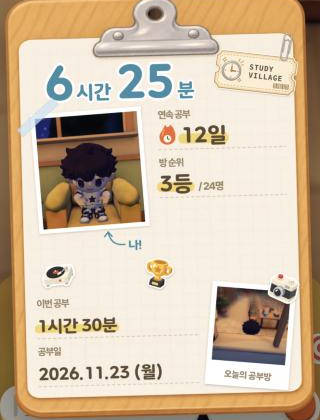
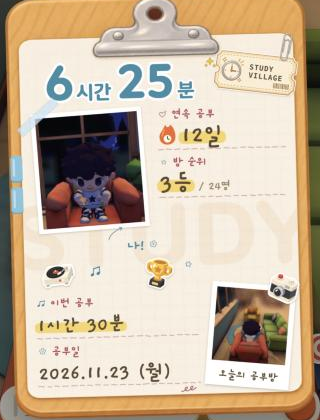
feat(web/study): hand-letter the study sheet with doodles
Labels and values now use the Gaegu handwriting font, labels are rose
with a doodle icon each, row rules are hand-drawn wobbly dashes, a large
faded STUDY watermark sits behind the content, sky-blue index tabs sit
on the board edge, and a few doodles fill the open space. The "나!"
label uses the doodle arrow and the polaroid caption is handwritten.

diff --git a/frontend/src/feature/study/recap/cardDraw.ts b/frontend/src/feature/study/recap/cardDraw.ts
@@ -8,6 +8,8 @@
 // assets/icons/study_*.png). 클립보드·티켓·클립·테이프는 Codex로 그린 일러스트(public/assets/study_recap,
 // 원본·프롬프트 tool/assets/recap_codex)이고, 글자·사진·스티커는 그 위에 캔버스로 그린다. 화면과 저장 이미지(인스타그램 스토리 1080×1920)는 같은 함수로 그린다.
 // 다크 모드에서 저장해도 같은 이미지가 나오도록 값은 낮 팔레트로 고정한다.
+import '@fontsource/gaegu/400.css'
+import '@fontsource/gaegu/700.css'
 import { paintClockField } from '../../../core/ui/IslandBackground'
 import { t } from '../../../l10n/t'
 import { webText } from '../../../l10n/web_ko'
@@ -22,11 +24,15 @@ const c = {
   lake: '#609baf', lakePattern: '#528ba0', title: '#3e8da6',
   sun: '#f8d66a', sunLedge: '#d9b246', onSun: '#5e4a32',
   white: '#ffffff',
+  /** 손글씨 라벨·낙서 장미색, 워터마크, 인덱스 탭. */
+  rose: '#b4505f', watermark: 'rgba(233,170,120,0.16)', tab: '#86c6de', tabEdge: '#5ea9c6',
 } as const
 
 const fonts = {
   sans: '"Pretendard Variable", Pretendard, -apple-system, sans-serif',
   round: '"TmoneyRoundWind", "Pretendard Variable", sans-serif',
+  /** 손글씨(Gaegu, OFL): 라벨·값·메모. */
+  hand: '"Gaegu", "Pretendard Variable", sans-serif',
   mono: 'ui-monospace, "SF Mono", Menlo, Consolas, monospace',
 } as const
 
@@ -45,6 +51,13 @@ const stickerUrls = {
   ticket: '/assets/study_recap/ticket.webp',
   paperclip: '/assets/study_recap/paperclip.webp',
   tape: '/assets/study_recap/tape.webp',
+  heart: '/assets/study_recap/doodle_heart.webp',
+  star: '/assets/study_recap/doodle_star.webp',
+  note: '/assets/study_recap/doodle_note.webp',
+  flower: '/assets/study_recap/doodle_flower.webp',
+  sparkle: '/assets/study_recap/doodle_sparkle.webp',
+  scribble: '/assets/study_recap/doodle_scribble.webp',
+  arrow: '/assets/study_recap/doodle_arrow.webp',
 } as const
 export type CardAssets = Record<keyof typeof stickerUrls, HTMLImageElement>
 
@@ -53,7 +66,7 @@ export async function loadCardAssets(recap: StudyRecap): Promise<CardAssets> {
   const sample = [
     webText.recapMe, webText.recapScene, ...Object.values(webText.recapFields),
     formatStudyDuration(recap.todaySeconds), formatStudyDuration(recap.sessionSeconds), webText.recapBrand,
-    '0123456789.·/!()시간분일등명월화수목금토일',
+    '0123456789.·/!()시간분일등명월화수목금토일STUDY',
   ].join('')
   const load = (src: string) => new Promise<HTMLImageElement>((resolve, reject) => {
     const img = new Image()
@@ -65,6 +78,7 @@ export async function loadCardAssets(recap: StudyRecap): Promise<CardAssets> {
   const [images] = await Promise.all([
     Promise.all(keys.map((k) => load(stickerUrls[k]))),
     document.fonts.load(`800 16px ${fonts.round}`, sample),
+    document.fonts.load(`700 16px ${fonts.hand}`, sample),
     ...[600, 700, 800].map((w) => document.fonts.load(`${w} 16px ${fonts.sans}`, sample)),
   ] as const)
   return Object.fromEntries(keys.map((k, i) => [k, images[i]!])) as CardAssets
@@ -79,19 +93,31 @@ function dateText(studyDate: string): string {
 // ── 시트 ──
 
 export function drawSheet(ctx: CanvasRenderingContext2D, recap: StudyRecap, assets: CardAssets): void {
-  // 클립보드(판·종이·집게) 일러스트.
+  // 클립보드(판·종이·집게) 일러스트, 왼쪽 가장자리 인덱스 탭, 종이 뒤쪽 큰 워터마크.
   ctx.drawImage(assets.clipboard, 0, 0, sheet.width, sheet.height)
+  indexTabs(ctx)
+  ctx.save()
+  ctx.font = `800 112px ${fonts.round}`
+  ctx.textAlign = 'center'
+  ctx.fillStyle = c.watermark
+  ctx.fillText(webText.recapWatermark, 200, 360)
+  ctx.restore()
 
   // 제목 자리: 오늘 공부한 시간을 가장 크게(둥근 글꼴 호수 청록 + 흰 테두리, 숫자 크게·단위 작게). 집게 아래.
   titleDuration(ctx, recap.todaySeconds, 150, 136, 230)
 
   drawTicket(ctx, assets, 332, 108)
   drawPortrait(ctx, recap, assets)
-  drawTopRows(ctx, recap)
+  drawTopRows(ctx, recap, assets)
   sticker(ctx, assets.music, 62, 372, 46, -14)
   if (recap.rank) sticker(ctx, assets.trophy, 196, 372, 42, 10)
   else sticker(ctx, assets.focus, 196, 374, 38, 10)
-  drawBottomRows(ctx, recap)
+  // 빈자리 손그림 낙서.
+  doodle(ctx, assets.sparkle, 272, 92, 30, 0)
+  doodle(ctx, assets.note, 112, 366, 24, -8)
+  doodle(ctx, assets.star, 236, 360, 22, 12)
+  doodle(ctx, assets.scribble, 232, 526, 30, -4)
+  drawBottomRows(ctx, recap, assets)
   drawPolaroid(ctx, recap, assets)
 }
 
@@ -131,56 +157,70 @@ function drawPortrait(ctx: CanvasRenderingContext2D, recap: StudyRecap, assets: 
   photo(ctx, recap.photo, -portraitSize.width / 2, -portraitSize.height / 2, portraitSize.width, portraitSize.height)
   tape(ctx, assets, -fw / 2 + 10, -fh / 2 + 4, -38, 68)
   ctx.restore()
-  // "나!" 와 휜 화살표: 사진 오른쪽 아래에서 사진을 가리킨다(위는 큰 공부 시간 자리).
+  // "나!"(손글씨)와 손그림 화살표: 사진 오른쪽 아래에서 사진을 가리킨다(위는 큰 공부 시간 자리).
   const by = cy + fh / 2
-  text(ctx, webText.recapMe, cx + 48, by + 26, { font: `800 15px ${fonts.round}`, color: c.title })
   ctx.save()
-  ctx.strokeStyle = c.title; ctx.lineWidth = 1.8; ctx.lineCap = 'round'
-  ctx.beginPath(); ctx.moveTo(cx + 44, by + 20); ctx.quadraticCurveTo(cx + 26, by + 22, cx + 22, by + 4); ctx.stroke()
-  ctx.beginPath(); ctx.moveTo(cx + 17, by + 9); ctx.lineTo(cx + 22, by + 3); ctx.lineTo(cx + 27, by + 9); ctx.stroke()
+  ctx.translate(cx + 32, by + 6); ctx.scale(-1, -1)
+  ctx.drawImage(assets.arrow, -13, -13, 26, 26)
   ctx.restore()
+  text(ctx, webText.recapMe, cx + 46, by + 28, { font: `700 21px ${fonts.hand}`, color: c.title })
+  doodle(ctx, assets.flower, cx + 82, by + 20, 18, 10)
 }
 
-type Row = { label: string; draw: (x: number, base: number, maxW: number) => void }
+type Row = { label: string; icon: HTMLImageElement; draw: (x: number, base: number, maxW: number) => void }
 
-/** 큰 항목 한 묶음: 라벨(작게, 위) → 값(크게, 아래) → 점선 밑줄. */
+/** 큰 항목 한 묶음: 낙서 아이콘 + 손글씨 라벨(장미색, 위) → 값(크게, 아래) → 손으로 그은 점선. */
 function rows(ctx: CanvasRenderingContext2D, list: Row[], x: number, right: number, startY: number, rowH: number) {
   list.forEach((r, i) => {
     const y = startY + i * rowH
-    text(ctx, r.label, x, y + 15, { font: `800 13px ${fonts.sans}`, color: c.inkSoft })
+    ctx.drawImage(r.icon, x - 2, y + 1, 17, 17)
+    text(ctx, r.label, x + 18, y + 15, { font: `700 17px ${fonts.hand}`, color: c.rose })
     const base = y + rowH - 16
     r.draw(x, base, right - x)
-    ctx.save()
-    ctx.strokeStyle = c.dash; ctx.lineWidth = 1.2; ctx.setLineDash([4, 3])
-    ctx.beginPath(); ctx.moveTo(x, base + 9); ctx.lineTo(right, base + 9); ctx.stroke()
-    ctx.restore()
+    handDash(ctx, x, right, base + 9, i * 7 + Math.round(startY))
   })
 }
 
-function drawTopRows(ctx: CanvasRenderingContext2D, recap: StudyRecap) {
-  const big = `800 28px ${fonts.round}`
+/** 손으로 그은 점선: 길이·높이가 조금씩 흔들리는 짧은 선. */
+function handDash(ctx: CanvasRenderingContext2D, x0: number, x1: number, y: number, seed: number) {
+  let a = seed * 2654435761 >>> 0
+  const rand = () => { a = (a * 1103515245 + 12345) >>> 0; return a / 4294967296 }
+  ctx.save()
+  ctx.strokeStyle = 'rgba(180,80,95,0.42)'; ctx.lineWidth = 1.3; ctx.lineCap = 'round'
+  let x = x0
+  while (x < x1) {
+    const len = 5 + rand() * 3
+    const end = Math.min(x1, x + len)
+    ctx.beginPath(); ctx.moveTo(x, y + (rand() - 0.5) * 1.2); ctx.lineTo(end, y + (rand() - 0.5) * 1.2); ctx.stroke()
+    x = end + 3.5 + rand() * 1.5
+  }
+  ctx.restore()
+}
+
+function drawTopRows(ctx: CanvasRenderingContext2D, recap: StudyRecap, assets: CardAssets) {
+  const big = `700 34px ${fonts.hand}`
   const list: Row[] = [
-    { label: webText.recapFields.streak, draw: (x, b) => {
+    { label: webText.recapFields.streak, icon: assets.heart, draw: (x, b) => {
       flame(ctx, x, b - 25, 28, recap.streakDays > 0)
       highlight(ctx, t('studyStatsStreakValue', { count: recap.streakDays }), x + 30, b, big, recap.streakDays > 0 ? c.ink : c.inkSoft)
     } },
   ]
   if (recap.rank) {
     const rank = recap.rank
-    list.push({ label: webText.recapFields.rank, draw: (x, b) => {
+    list.push({ label: webText.recapFields.rank, icon: assets.star, draw: (x, b) => {
       const num = `${rank.position}${webText.recapRankUnit}`
       highlight(ctx, num, x, b, big)
-      text(ctx, webText.recapRankTotal(rank.total), x + measure(ctx, num, big) + 8, b, { font: `800 14px ${fonts.sans}`, color: c.inkSoft })
+      text(ctx, webText.recapRankTotal(rank.total), x + measure(ctx, num, big) + 8, b, { font: `700 17px ${fonts.hand}`, color: c.inkSoft })
     } })
   }
   rows(ctx, list, 200, 370, 150, 64)
 }
 
-function drawBottomRows(ctx: CanvasRenderingContext2D, recap: StudyRecap) {
-  const font = `800 22px ${fonts.round}`
+function drawBottomRows(ctx: CanvasRenderingContext2D, recap: StudyRecap, assets: CardAssets) {
+  const font = `700 28px ${fonts.hand}`
   const list: Row[] = [
-    { label: webText.recapFields.session, draw: (x, b) => highlight(ctx, formatStudyDuration(recap.sessionSeconds), x, b, font) },
-    { label: webText.recapFields.date, draw: (x, b, w) => text(ctx, ellipsize(ctx, dateText(recap.studyDate), font, w), x, b, { font, color: c.ink }) },
+    { label: webText.recapFields.session, icon: assets.note, draw: (x, b) => highlight(ctx, formatStudyDuration(recap.sessionSeconds), x, b, font) },
+    { label: webText.recapFields.date, icon: assets.flower, draw: (x, b, w) => text(ctx, ellipsize(ctx, dateText(recap.studyDate), font, w), x, b, { font, color: c.ink }) },
   ]
   rows(ctx, list, 32, 248, 398, 64)
 }
@@ -199,7 +239,7 @@ function drawPolaroid(ctx: CanvasRenderingContext2D, recap: StudyRecap, assets: 
   ctx.fillRect(-w / 2, -h / 2, w, h)
   ctx.restore()
   photo(ctx, recap.scenePhoto, -sceneSize.width / 2, -h / 2 + 7, sceneSize.width, sceneSize.height)
-  text(ctx, webText.recapScene, 0, h / 2 - 12, { font: `800 11.5px ${fonts.round}`, color: c.inkSoft, align: 'center' })
+  text(ctx, webText.recapScene, 0, h / 2 - 11, { font: `700 16px ${fonts.hand}`, color: c.ink, align: 'center' })
   ctx.restore()
   sticker(ctx, assets.camera, cx + 46, cy - 62, 40, 14)
 }
@@ -302,6 +342,26 @@ function sticker(ctx: CanvasRenderingContext2D, img: HTMLImageElement, cx: numbe
   ctx.shadowColor = 'rgba(90,55,20,0.25)'; ctx.shadowBlur = 6; ctx.shadowOffsetY = 3
   ctx.drawImage(img, -size / 2, -size / 2, size, size)
   ctx.restore()
+}
+
+/** 손그림 낙서를 기울여 얹는다(그림자 없음: 종이에 그린 것). */
+function doodle(ctx: CanvasRenderingContext2D, img: HTMLImageElement, cx: number, cy: number, size: number, deg: number) {
+  ctx.save()
+  ctx.translate(cx, cy); ctx.rotate((deg * Math.PI) / 180)
+  ctx.drawImage(img, -size / 2, -size / 2, size, size)
+  ctx.restore()
+}
+
+/** 판 왼쪽 가장자리의 하늘색 인덱스 탭 두 개(종이 아래에 끼운 느낌으로 판 위에만). */
+function indexTabs(ctx: CanvasRenderingContext2D) {
+  for (const y of [210, 252]) {
+    ctx.fillStyle = c.tabEdge
+    ctx.beginPath(); ctx.roundRect(2, y + 2, 16, 34, 5); ctx.fill()
+    ctx.fillStyle = c.tab
+    ctx.beginPath(); ctx.roundRect(2, y, 16, 34, 5); ctx.fill()
+    ctx.fillStyle = 'rgba(255,255,255,0.45)'
+    ctx.beginPath(); ctx.roundRect(5, y + 4, 3, 24, 1.5); ctx.fill()
+  }
 }
 
 /** 마스킹 테이프 일러스트를 기울여 붙인다. */

diff --git a/frontend/src/l10n/web_ko.ts b/frontend/src/l10n/web_ko.ts
@@ -29,6 +29,7 @@ export const webText = {
   statsLoading: '통계를 불러오는 중이에요',
   // 공부를 끝낸 뒤 "오늘의 공부" 시트(앱에 없는 화면, 사용자 결정 2026-11-23).
   recapMe: '나!',
+  recapWatermark: 'STUDY',
   recapScene: '오늘의 공부방',
   recapFields: {
     streak: '연속 공부',

diff --git a/docs/design-parity/exceptions.md b/docs/design-parity/exceptions.md
@@ -22,6 +22,6 @@
 - **3D 방 부드러운 룩(기본)**: 셀 셰이딩 단 대신 넓은 감싸기 조명(빛 쪽 크림·그늘 쪽 라벤더)과 반구 조명, 화면 공간 접촉 그늘(½ 해상도 8탭, 높은 단계만), 그 자리 색을 어둡게 한 외곽선, 파스텔 보정(생기·부드러운 어깨·분할 톤). 예전 카툰 룩은 `?look=toon`, 앱 그림은 `?look=app`. 비교: `room_v2/soft_look_vs_toon.jpg`. 감성 보강(같은 날): 창밖 하늘에서 모은 빛줄기(½ 해상도 40탭, 높은 단계만), 먼 곳 공기 원근(위 하늘빛·아래 크림), 살구빛 할레이션, 오른쪽 위 빛샘, 비네트 0.18. `room_v2/mood_pass.jpg`(이전 / 오후 16시 / 밤). 개발 빌드는 `?hour=16`으로 시각을 고정해 본다. 사용자 결정(2026-11-23 "셰이더 대격변").
 - **3D 방 선명한 룩(기본, 같은 날 교체)**: 사용자 참고 이미지(게임 아트 거리)를 따라 따뜻한 해·푸른 그늘의 좁고 부드러운 조명 경계, 채도 +22%·S 곡선 대비, 그늘 푸름·빛 따뜻함 분할 톤, 푸른 접촉 그늘, 아주 옅은 색 외곽선, 공기·빛샘·빛줄기·그레인 없음, 비네트 0.12. 몽환 파스텔은 `?look=soft`. 비교: `room_v2/vivid_look.jpg`(soft 오후 / vivid 오후 / vivid 밤).
 - **3인칭 카메라 자유 조작**: 앱은 좌우로 끌어 내 자리 둘레만 돈다. 웹은 위아래로 끌어 내려다보는 각도(기본 30° ±, 5–80°)도 바꾸고, 휠·두 손가락 벌리기로 거리(0.65–2.2배)를 바꾸며, 두 번 누르면 기본 시점으로 돌아간다. 카메라는 천장(3.9m) 아래로 거리를 줄인다. 사용자 결정(2026-11-23).
-- **공부 요약("오늘의 공부" 시트, 앱에 없는 화면)**: 스토리에 올려 오늘 공부한 결과를 자랑하는 클립보드 프로필 시트 한 장. 구성은 사용자가 준 클립보드 프로필 레퍼런스(2026-11-23)를 따르되 캐릭터·로고·문구는 쓰지 않는다: 나무 판과 금속 집게, 모눈 크림 종이(판·집게·종이·티켓·클립·테이프는 Codex로 그린 일러스트, `docs/sources.md`), 제목 자리에 오늘 공부한 시간(둥근 글꼴 호수 청록 + 흰 테두리, 숫자 크게·단위 작게), 티켓 스티커(STUDY VILLAGE·날짜 바코드)와 클립, 마스킹 테이프로 붙인 정면 프로필 사진과 사진 아래 "나!" 화살표, 오른쪽 큰 항목(라벨 위·값 아래, 햇살 형광펜: 연속 공부(불꽃)·방 순위(서버 값이 있을 때만)), 앱 스티커(LP·트로피(순위 있을 때) 또는 과녁), 아래 큰 항목(이번 공부·공부일). 이름·목표 달성·과목은 넣지 않는다(사용자 결정), 3인칭으로 찍은 "오늘의 공부방" 폴라로이드와 카메라 스티커(앱 스티커 아트, 원본 `assets/icons/study_*.png`). 사진은 끝내기 직전에 3D 방에서 두 장 찍는다(정면은 벽이 가리지 않게 가까운 면을 사람 앞 0.75m까지 당김). 사진이 없으면 시계 무늬 빈 칸. 홀로그램 포일은 종이 시트와 맞지 않아 뺐다. 방 순위는 서버 랭킹(계획 5단계)이 없어 실제 흐름에서는 줄을 숨기고 개발용 표본 주소에서만 채운다. 공부방 위에 시트와 섬 단추(이미지 저장·공유(지원 시)·닫기)만 뜨고 방은 흐리지 않고 검정 35%로만 어둡게 한다. 저장 이미지(스토리 1080×1920)는 시계 무늬 호수 위 같은 시트 + StudyVillage. 섬 팔레트 낮 값으로 고정. 개발 빌드 전용 상시 확인 주소: `/?recap=goal`, `/?recap=more`, `/?recap=plain` — `recap/useRecapDemo.ts`. 캡처: `recap/sheet_modal.png`, `recap/sheet_story_no_photo.png`(사진 없는 상태). 사용자 결정(2026-11-23).
+- **공부 요약("오늘의 공부" 시트, 앱에 없는 화면)**: 스토리에 올려 오늘 공부한 결과를 자랑하는 클립보드 프로필 시트 한 장. 구성은 사용자가 준 클립보드 프로필 레퍼런스(2026-11-23)를 따르되 캐릭터·로고·문구는 쓰지 않는다: 나무 판과 금속 집게, 모눈 크림 종이(판·집게·종이·티켓·클립·테이프는 Codex로 그린 일러스트, `docs/sources.md`), 제목 자리에 오늘 공부한 시간(둥근 글꼴 호수 청록 + 흰 테두리, 숫자 크게·단위 작게), 내부 요소는 레퍼런스처럼 손글씨(Gaegu)·장미색 라벨·Codex 손그림 낙서 아이콘(하트·별·음표·꽃·반짝이·낙서·화살표)·손으로 그은 점선·큰 연한 STUDY 워터마크·판 왼쪽 하늘색 인덱스 탭, 티켓 스티커(STUDY VILLAGE·날짜 바코드)와 클립, 마스킹 테이프로 붙인 정면 프로필 사진과 사진 아래 "나!" 화살표, 오른쪽 큰 항목(라벨 위·값 아래, 햇살 형광펜: 연속 공부(불꽃)·방 순위(서버 값이 있을 때만)), 앱 스티커(LP·트로피(순위 있을 때) 또는 과녁), 아래 큰 항목(이번 공부·공부일). 이름·목표 달성·과목은 넣지 않는다(사용자 결정), 3인칭으로 찍은 "오늘의 공부방" 폴라로이드와 카메라 스티커(앱 스티커 아트, 원본 `assets/icons/study_*.png`). 사진은 끝내기 직전에 3D 방에서 두 장 찍는다(정면은 벽이 가리지 않게 가까운 면을 사람 앞 0.75m까지 당김). 사진이 없으면 시계 무늬 빈 칸. 홀로그램 포일은 종이 시트와 맞지 않아 뺐다. 방 순위는 서버 랭킹(계획 5단계)이 없어 실제 흐름에서는 줄을 숨기고 개발용 표본 주소에서만 채운다. 공부방 위에 시트와 섬 단추(이미지 저장·공유(지원 시)·닫기)만 뜨고 방은 흐리지 않고 검정 35%로만 어둡게 한다. 저장 이미지(스토리 1080×1920)는 시계 무늬 호수 위 같은 시트 + StudyVillage. 섬 팔레트 낮 값으로 고정. 개발 빌드 전용 상시 확인 주소: `/?recap=goal`, `/?recap=more`, `/?recap=plain` — `recap/useRecapDemo.ts`. 캡처: `recap/sheet_modal.png`, `recap/sheet_story_no_photo.png`(사진 없는 상태). 사용자 결정(2026-11-23).
 - **공부방 태그·추천(앱에 없는 기능)**: 공부방 목록 맨 위에 "나와 같은 공부" 칸(밤하늘 위 흰 제목, 내 태그 알약, 오른쪽 "태그 수정" 섬 단추, 아래 같은 카드 2열). 내 태그가 없으면 같은 자리에 종이 카드 안내와 "태그 고르기" 햇살 단추. 겹치는 방이 없으면 빈 상태 그림 대신 한 줄 안내(방이 많아 보여야 해서 큰 빈 그림을 두지 않음). 카드에는 소개 아래 초록 `#태그` 한 줄. "내 공부 태그" 시트는 과목 고르기 시트(PaperSheet·턱 있는 알약 칩·둥근 입력칸)를 따르고, 고른 태그는 초록 알약. 문구는 `l10n/web_tags_ko.ts`(새로 씀). 검색 중에는 추천 칸을 숨긴다. 캡처: `tags/rooms_recommended_mobile.jpg`, `tags/my_tags_sheet.jpg`. 사용자 결정(2026-11-23, `docs/plan/study-tags.md`).
 - **월드 고정 하늘·가까운 면**: 앱은 하늘을 화면 한 장으로 그려 카메라를 돌려도 달·해가 화면에 붙어 있다. 웹은 카메라를 따라다니는 하늘 구(`three/skyDome.ts`)에 그려 달·해·별이 창문과 함께 움직이고(해·달은 자리들이 보는 쪽 하늘을 가로지름), 카메라 가까운 면을 0.1→0.3m, 먼 면을 80m로 바꿔 창틀·문틀·벽·그림 사이 깊이 경쟁을 줄였다. 사용자 버그 신고(2026-11-23).

diff --git a/docs/sources.md b/docs/sources.md
@@ -25,6 +25,8 @@ PocketTime에서 가져온 코드 의미·자산·문구. 원본 커밋: PocketT
 | `frontend/src/feature/study/room3d/{StudyRoom3dView,StudyRoomSky}.tsx`, `skyStars.json` | `widgets/study_room_3d_view.dart`, `widgets/study_room_sky.dart` | f574f242 | 별 위치는 Dart `Random`으로 뽑은 값 |
 | `frontend/src/feature/study/timer/timerStore.ts` | `timer/domain/study_timeline.dart`(구간 합) | f574f242 | 진실은 서버 세션(결정 12) |
 | `frontend/public/assets/icons/nav/study_tab_*.png` | Codex 이미지 생성(2026-11-23, 공부방은 푸른 지구 `tab_rooms_globe.png`). 화풍 참고: `icons/study_{shop,trophy,music,camera,chat}.png`, 주제 참고: PocketTime `assets/icons/nav/study_tab_*.png` | — | 512px 원본·프롬프트는 `tool/assets/tab_icons_codex/`, 200px로 줄여 씀 |
+| `frontend/public/assets/study_recap/doodle_{heart,star,note,flower,sparkle,scribble,arrow}.webp` | Codex 이미지 생성(2026-11-23, 공부 요약 시트 손그림 낙서) | — | 원본 PNG·프롬프트(`doodle_prompt.txt`)는 `tool/assets/recap_codex/`, cwebp q90 |
+| 글꼴 Gaegu(`@fontsource/gaegu` 5.3.0, OFL-1.1) | npm | — | 공부 요약 시트 손글씨 라벨·값 |
 | `frontend/public/assets/study_recap/{clipboard,ticket,paperclip,tape}.webp` | Codex 이미지 생성(2026-11-23, 공부 요약 시트). 화풍 참고: `icons/study_{trophy,camera}.png`, 구성 참고: 사용자가 준 클립보드 프로필 레퍼런스(캐릭터·로고 제외) | — | 원본 PNG·프롬프트는 `tool/assets/recap_codex/`, cwebp q90으로 줄여 씀 |
 | `frontend/src/feature/study/stats/*` | `widgets/study_stats_view.dart`, `widgets/streak_flame.dart`, `timer/domain/study_stats.dart`(진행 중 몫) | f574f242 | 의미·값 이식, 불꽃은 정적 SVG |
 | `frontend/src/feature/study/sound/*` | `sound/{model,viewmodel,application}/*.dart`, `widgets/study_sound_panel.dart`, `widgets/study_lp_player.dart` | f574f242 | 의미·값 이식(HTMLAudioElement로 재생) |
